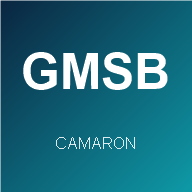
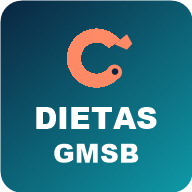
Add files via upload

diff --git a/index.html b/index.html
@@ -4,8 +4,8 @@
 <meta charset="UTF-8" />
 <meta name="viewport" content="width=device-width, initial-scale=1.0, viewport-fit=cover" />
 <meta name="theme-color" content="#0b5394" />
-<meta name="description" content="GMSB · Cálculo de la ración diaria teórica para el cultivo y engorde de camarón." />
-<title>GMSB · Ración Diaria Camarón</title>
+<meta name="description" content="DIETAS GMSB · Cálculo de la ración diaria de alimentación para el cultivo y engorde de camarón." />
+<title>DIETAS GMSB</title>
 
 <!-- PWA -->
 <link rel="manifest" href="manifest.json" />
@@ -13,7 +13,7 @@
 <link rel="apple-touch-icon" href="icons/apple-touch-icon.png" />
 <meta name="apple-mobile-web-app-capable" content="yes" />
 <meta name="apple-mobile-web-app-status-bar-style" content="black-translucent" />
-<meta name="apple-mobile-web-app-title" content="GMSB Ración" />
+<meta name="apple-mobile-web-app-title" content="DIETAS GMSB" />
 
 <link rel="preconnect" href="https://fonts.googleapis.com" />
 <link rel="preconnect" href="https://fonts.gstatic.com" crossorigin />
@@ -37,8 +37,8 @@
     <div class="app-brand">
       <div class="app-brand__logo">GMSB</div>
       <div class="app-brand__text">
-        <h1>GMSB — Ración Diaria 🦐</h1>
-        <p>Cálculo de alimentación teórica por laguna</p>
+        <h1>DIETAS GMSB 🦐</h1>
+        <p>Ración diaria de alimentación por laguna</p>
       </div>
     </div>
     <div class="app-actions">
@@ -59,7 +59,7 @@
 <div id="pantallaLogin" class="login-overlay" style="display:none">
   <div class="login-card">
     <div class="login-logo">GMSB</div>
-    <h2>Ración Diaria 🦐</h2>
+    <h2>DIETAS GMSB 🦐</h2>
     <p class="login-sub">Inicia sesión para ver tus lagunas sincronizadas en la nube.</p>
     <form id="formLogin">
       <div class="campo">

diff --git a/sw.js b/sw.js
@@ -1,5 +1,5 @@
 /* Service Worker — caché del app shell para uso offline e instalación PWA. */
-const CACHE = 'gmsb-racion-v5';
+const CACHE = 'gmsb-racion-v6';
 const ASSETS = [
   './',
   './index.html',